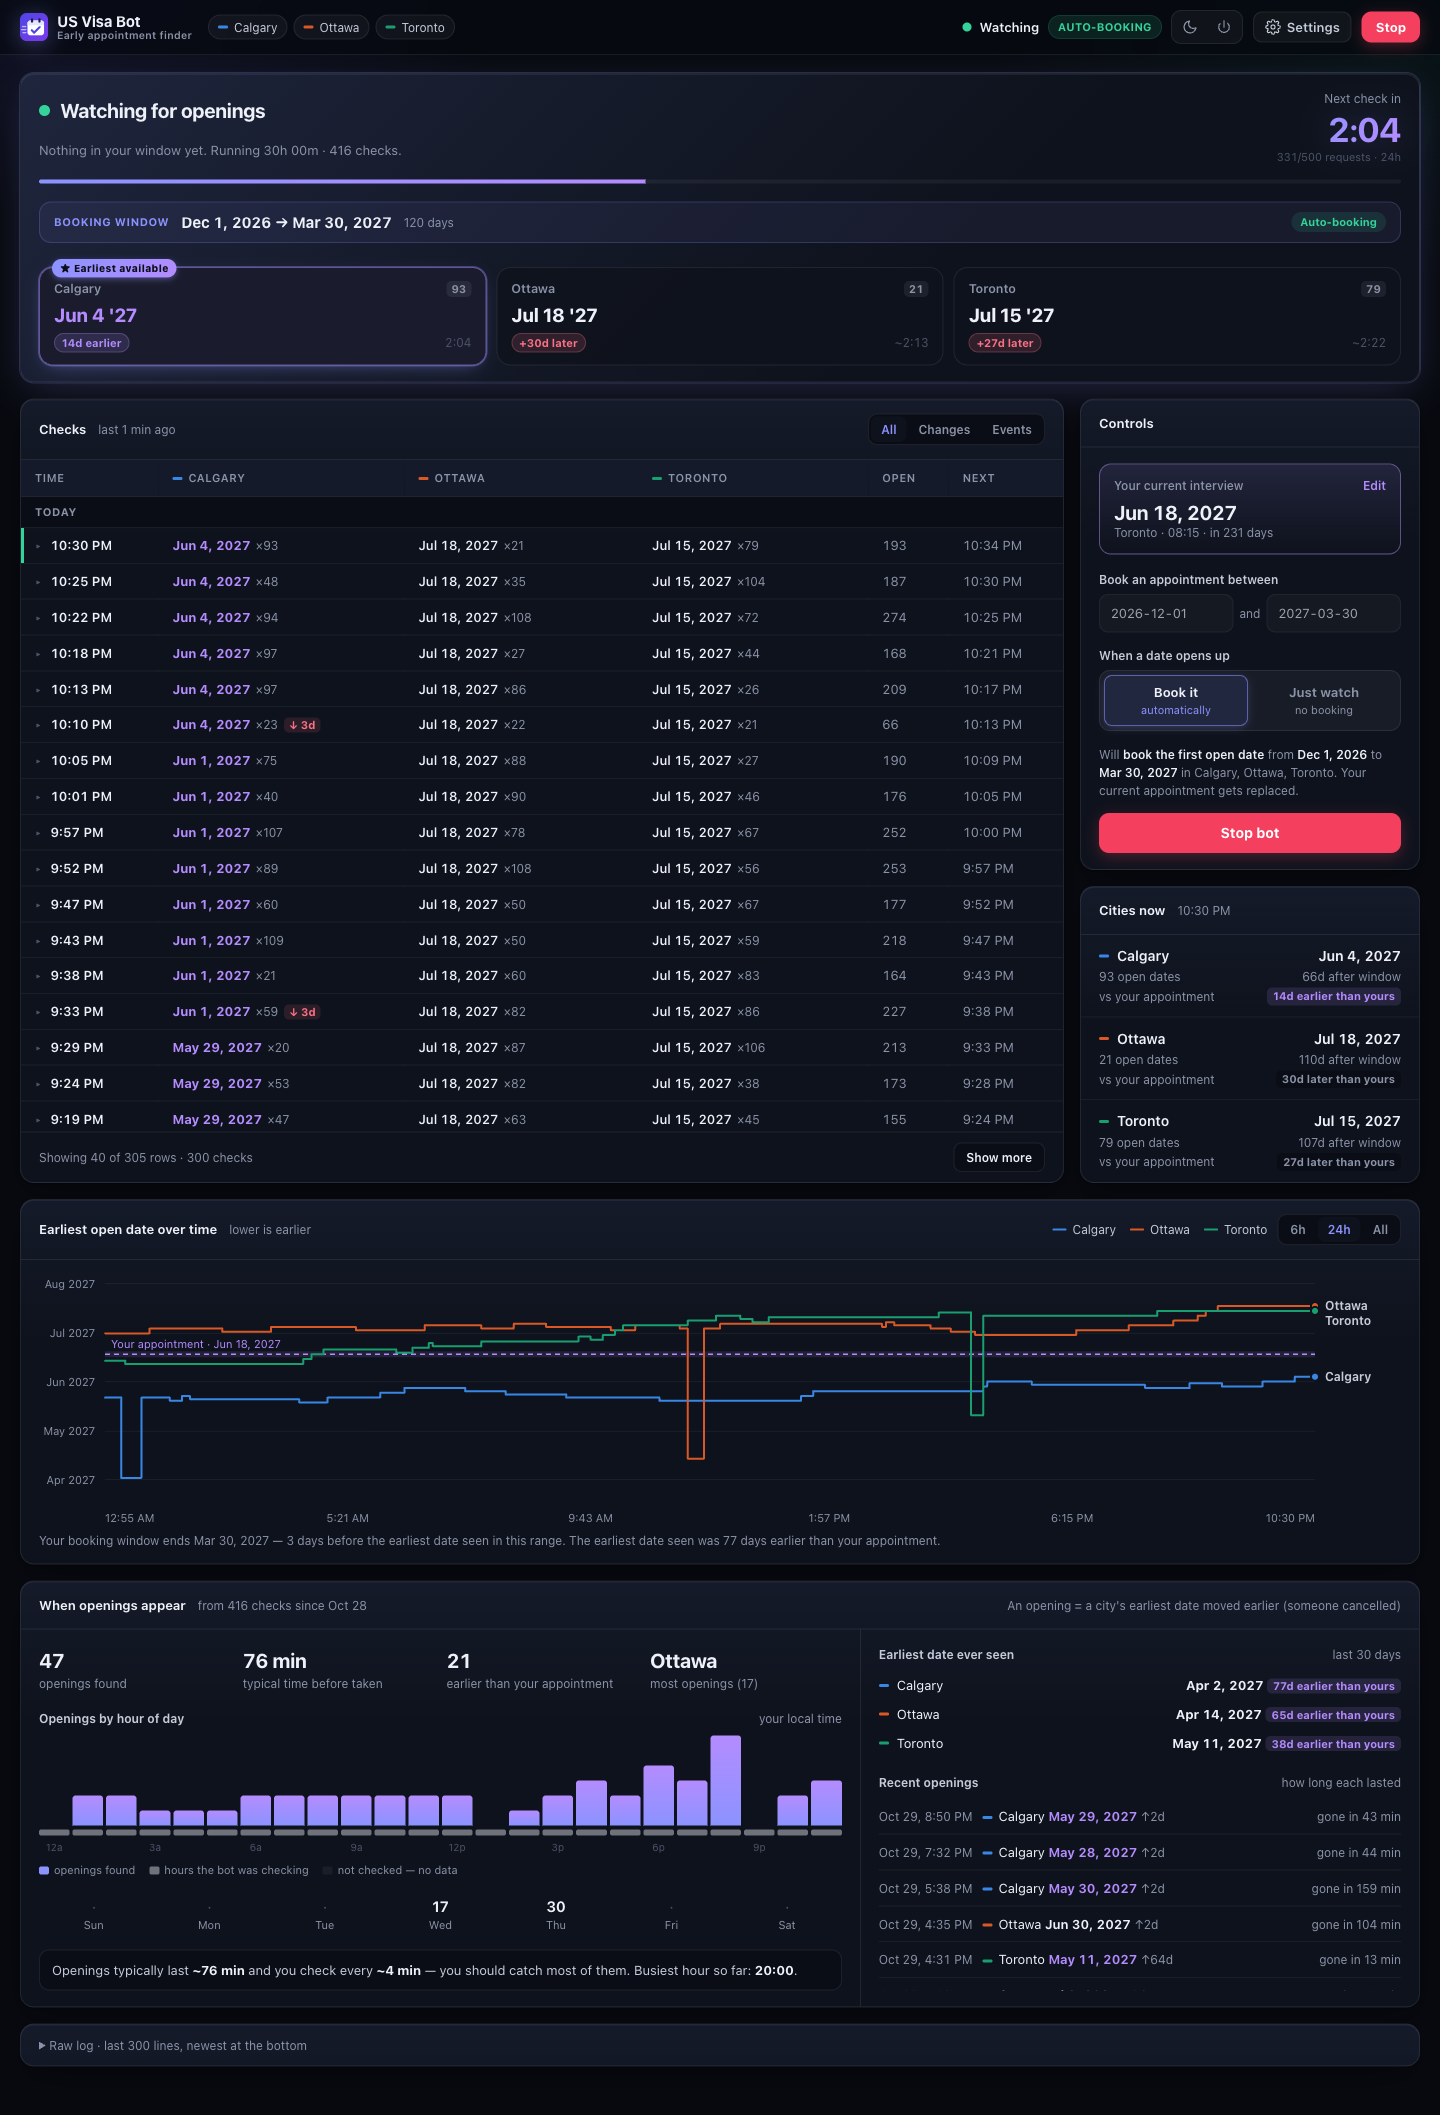
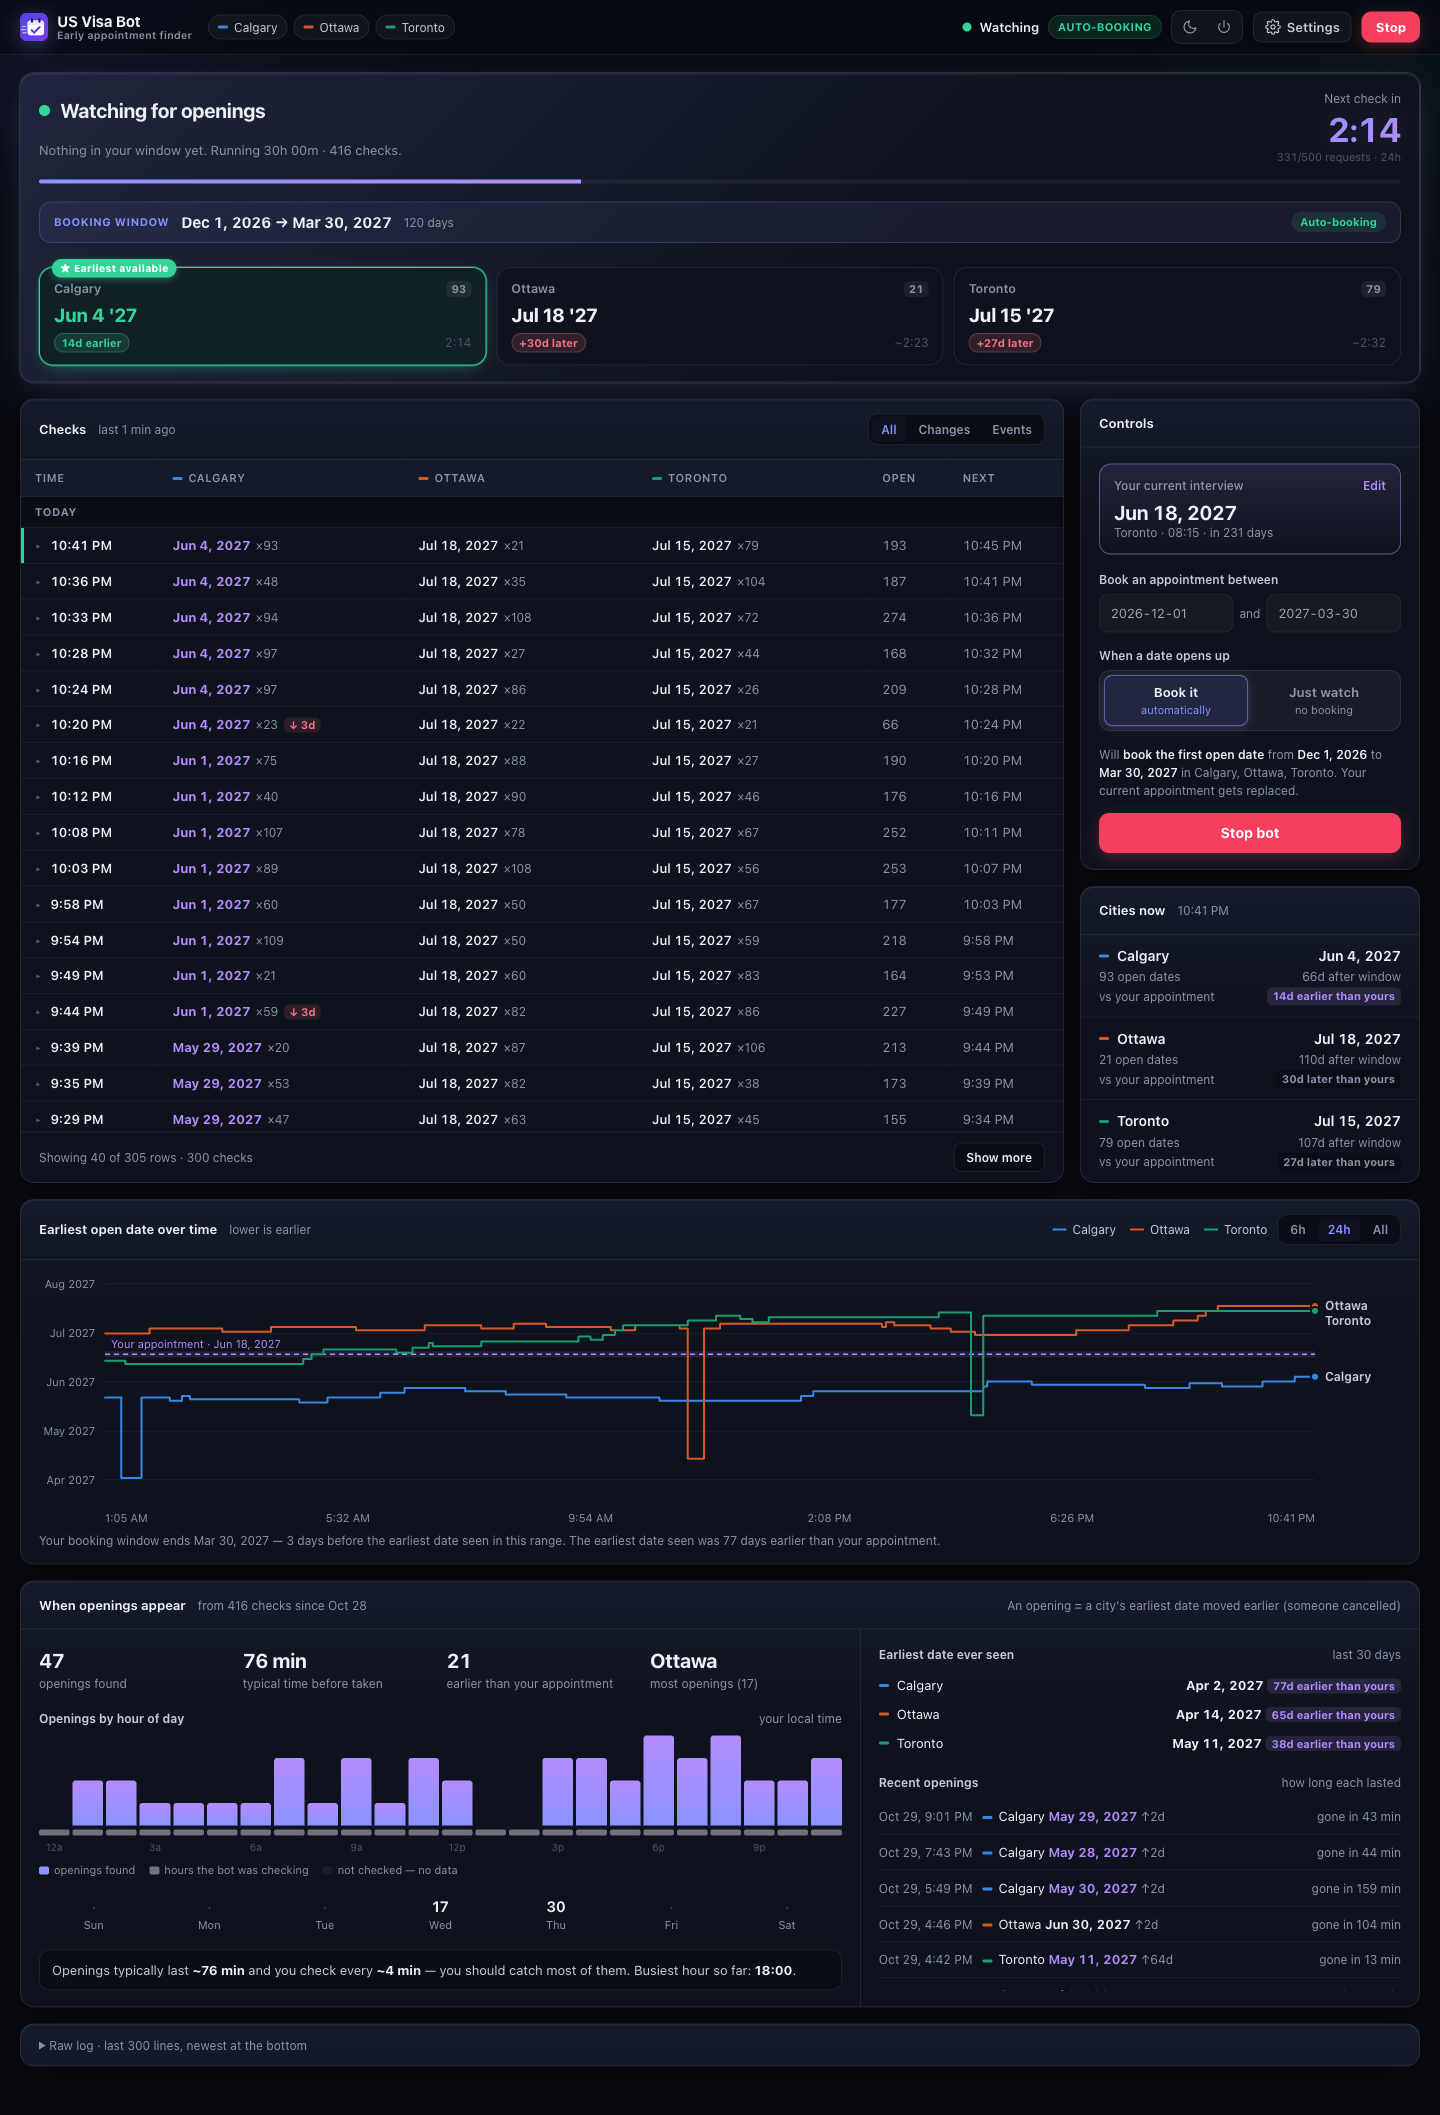
Dashboard: dates earlier than your interview in green; dates in your window stand out (solid green, filled pill)

diff --git a/src/ui/index.html b/src/ui/index.html
@@ -141,10 +141,10 @@
   .cyc .cc .row { display: flex; align-items: center; justify-content: space-between; gap: 6px; min-height: 15px; }
   .cyc .cc { position: relative; }
   .cyc .cc.closest { border-color: color-mix(in srgb, var(--accent) 60%, transparent); box-shadow: 0 0 0 1px color-mix(in srgb, var(--accent) 35%, transparent), 0 6px 18px -8px color-mix(in srgb, var(--accent) 55%, transparent); }
-  .cyc .cc.closest.hit { border-color: var(--good); }
+  .cyc .cc.closest.hit, .cyc .cc.closest.better { border-color: var(--good); box-shadow: 0 0 0 1px color-mix(in srgb, var(--good) 35%, transparent), 0 6px 18px -8px color-mix(in srgb, var(--good) 55%, transparent); }
   .cyc .cc .best { position: absolute; top: -9px; left: 12px; font-size: 10px; font-weight: 800; letter-spacing: .03em; padding: 2px 8px; border-radius: 999px;
     color: var(--on-accent); background: linear-gradient(135deg, var(--accent), var(--accent-2)); box-shadow: 0 2px 6px color-mix(in srgb, var(--accent) 40%, transparent); }
-  .cyc .cc.closest.hit .best { background: var(--good); color: #fff; }
+  .cyc .cc.closest.hit .best, .cyc .cc.closest.better .best { background: var(--good); color: #fff; box-shadow: 0 2px 6px color-mix(in srgb, var(--good) 40%, transparent); }
   .cyc .cc .top { display: flex; align-items: baseline; justify-content: space-between; gap: 6px; min-width: 0; }
   .cyc .cc .cnt { font-size: 11px; font-weight: 700; color: var(--muted); font-variant-numeric: tabular-nums; padding: 0 5px; border-radius: 5px; background: color-mix(in srgb, var(--text) 7%, transparent); }
   .cyc .cc.none .cnt { color: var(--warn); }
@@ -152,12 +152,15 @@
   .cyc .cc .ind { font-size: 11px; font-weight: 700; white-space: nowrap; color: var(--muted); }
   .cyc .cc .ind:not(:empty) { --c: var(--muted); color: var(--c); padding: 1px 7px; border-radius: 999px; background: color-mix(in srgb, var(--c) 14%, transparent); border: 1px solid color-mix(in srgb, var(--c) 28%, transparent); }
   .cyc .cc.hit .ind { --c: var(--good); }
-  .cyc .cc.better .ind { --c: var(--info); }
+  .cyc .cc.better .ind { --c: var(--good); }
   .cyc .cc.later .ind { --c: var(--bad); }
-  .cyc .cc.hit { border-color: color-mix(in srgb, var(--good) 55%, transparent); background: color-mix(in srgb, var(--good) 8%, var(--panel)); }
-  .cyc .cc.hit .dt, .cyc .cc.hit .ind { color: var(--good); }
-  .cyc .cc.better { border-color: color-mix(in srgb, var(--info) 50%, transparent); background: color-mix(in srgb, var(--info) 7%, var(--panel)); }
-  .cyc .cc.better .dt, .cyc .cc.better .ind { color: var(--info); }
+  /* inside your window — bookable: solid green, filled pill */
+  .cyc .cc.hit { border: 2px solid var(--good); background: color-mix(in srgb, var(--good) 15%, var(--panel)); padding: 10px 13px 11px; }
+  .cyc .cc.hit .dt { color: var(--good); }
+  .cyc .cc.hit .ind:not(:empty) { color: #fff; background: var(--good); border-color: var(--good); }
+  /* earlier than your interview: good news, green */
+  .cyc .cc.better { border-color: color-mix(in srgb, var(--good) 50%, transparent); background: color-mix(in srgb, var(--good) 7%, var(--panel)); }
+  .cyc .cc.better .dt, .cyc .cc.better .ind { color: var(--good); }
   .cyc .cc.none .dt { color: var(--warn); font-size: 12.5px; }
   .cyc .cc.err .dt { color: var(--bad); font-size: 12.5px; }
   .cyc .cc.wait .dt { color: var(--faint); }
@@ -428,7 +431,7 @@
   .sw input:checked + i::after { transform: translateX(16px); }
   .sw input:focus-visible + i { outline: 2px solid color-mix(in srgb, var(--accent) 55%, transparent); outline-offset: 2px; }
 
-  .act tr.ev.early td { background: color-mix(in srgb, var(--info) 10%, var(--panel)); } .act tr.ev.early .evi { background: var(--info); } .act tr.ev.early .evt { color: var(--info); font-weight: 650; }
+  .act tr.ev.early td { background: color-mix(in srgb, var(--good) 6%, var(--panel)); } .act tr.ev.early .evi { background: var(--good); } .act tr.ev.early .evt { color: var(--good); font-weight: 600; }
   a.btn-ghost { text-decoration: none; display: inline-block; }
   .icon-btn.on { color: var(--good); border-color: color-mix(in srgb, var(--good) 45%, var(--line)); background: var(--good-bg); }
 

diff --git a/README.md b/README.md
@@ -58,7 +58,7 @@ No terminal next time: double-click **`Visa Bot.cmd`** (Windows) or **`Visa Bot.
 
 **See what's happening at a glance**
 - **Live status** with a countdown to the next check — and, right inside it, a tile per city:
-  - each city's **earliest open date** and how it compares to your interview — *✓ in window* (green), *20d earlier* (purple) or *+102d later* (red)
+  - each city's **earliest open date** and how it compares to your interview — *✓ in window* (green), *20d earlier* (green) or *+102d later* (red)
   - a **★ Earliest available** badge on the city with the earliest date you could book right now
   - how many dates each city has, a spinner on the city being asked right now, and a countdown to when each city is checked, in the bot's random order
 - The **booking window it's working on** and whether it's auto-booking or just watching, with the request budget as a small line under the countdown
